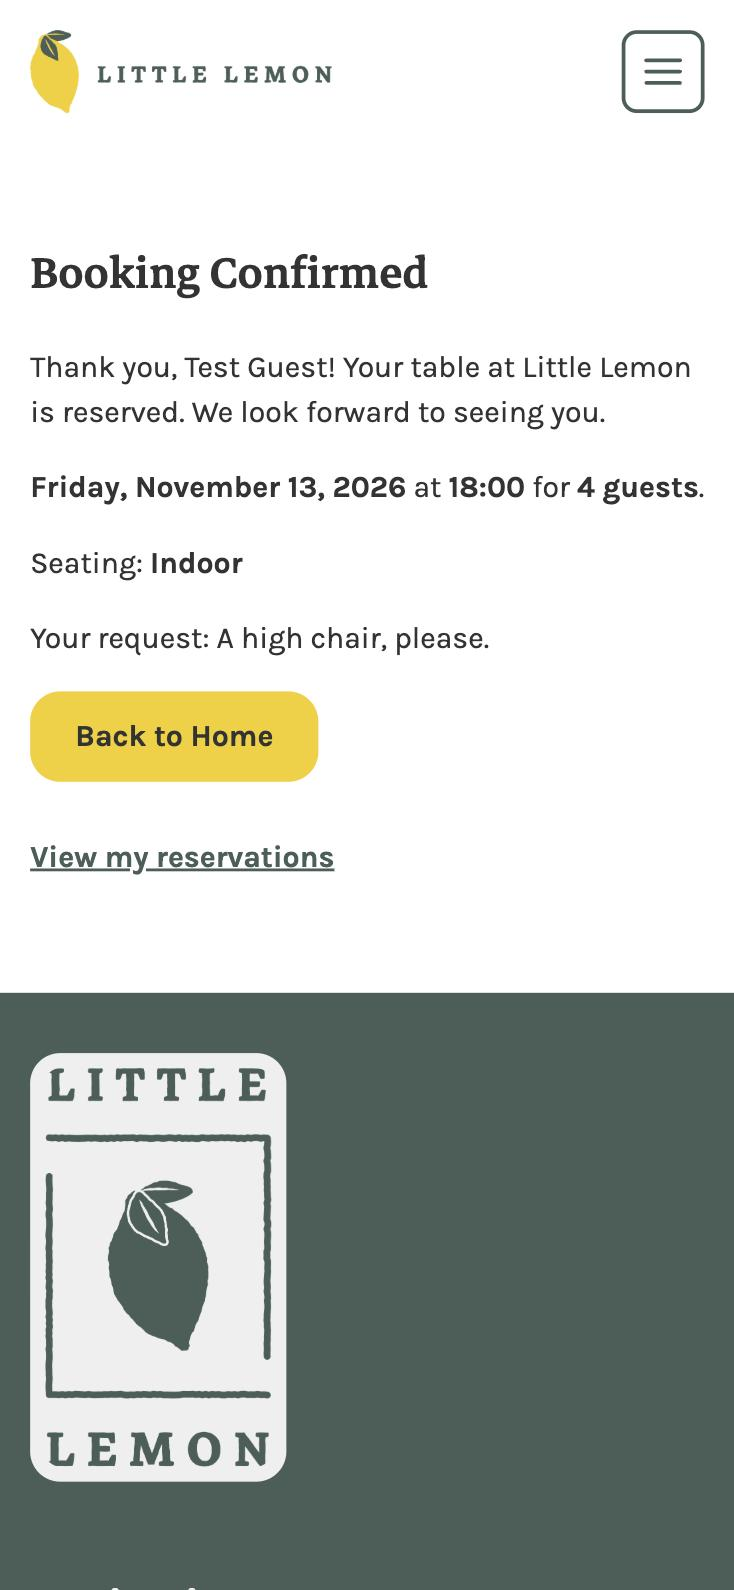
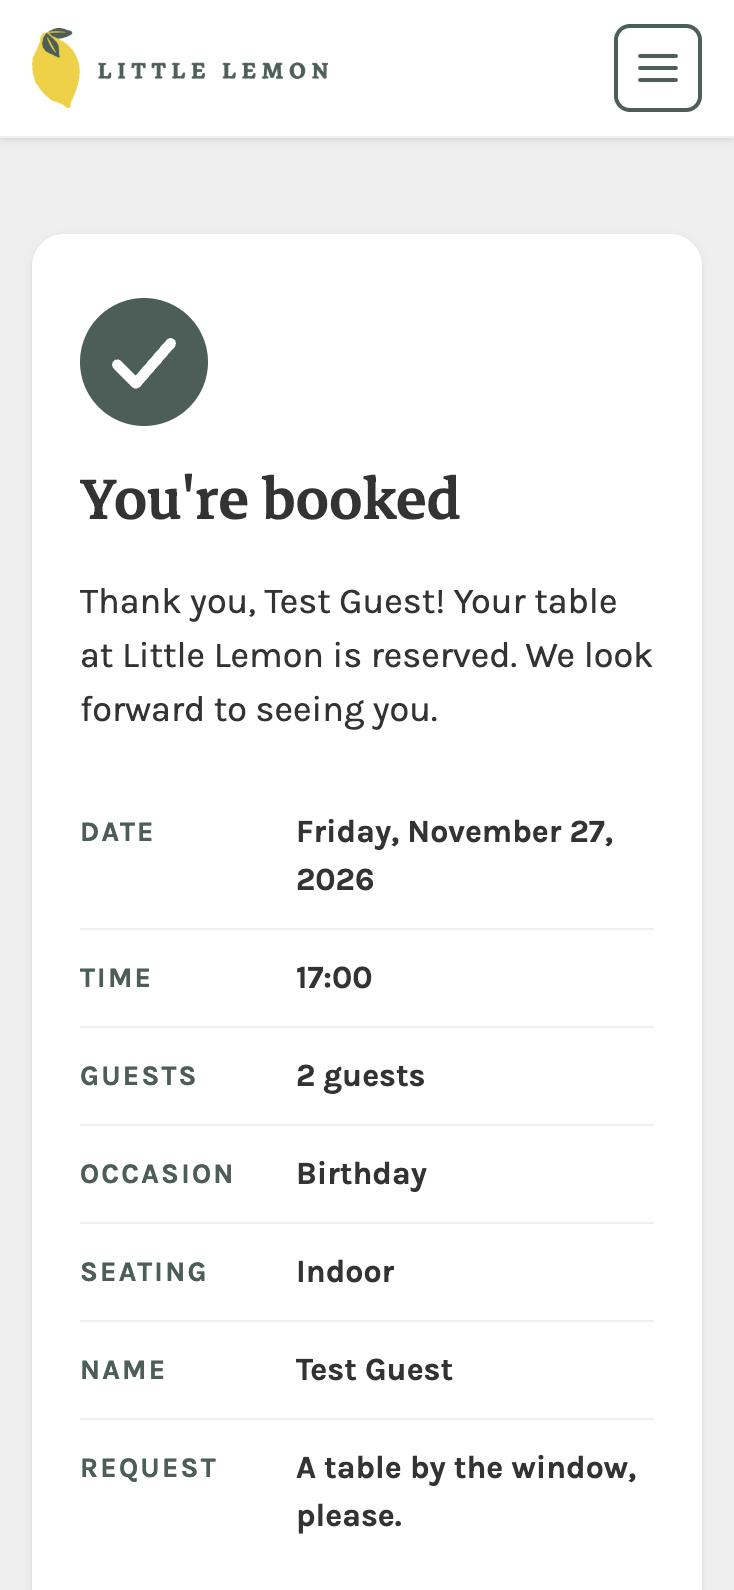
docs(readme): new screenshots with fake data and final notes

diff --git a/README.md b/README.md
@@ -54,7 +54,7 @@ The app opens at [http://localhost:3000](http://localhost:3000). Step-by-step de
 - **My Reservations page**: every booking is saved in the browser (`localStorage`), so it's still there after a reload. Bookings are split into **Upcoming** and **Past**, each card with a date badge, the time, small pills for guests, occasion and seating, and the name. **Cancel** asks first ("Cancel this reservation?" **Yes, cancel** / **Keep it**), and screen readers announce "Reservation cancelled." Past bookings are kept as a record and can't be cancelled.
 - **No double bookings**: a time you've already booked disappears from the time list for that date, and comes back if you cancel. (Demo rule: this browser can't book the same slot twice. With no real server, other visitors' bookings aren't known.)
 - **Helpful messages for edge cases**: a failed save, a date with no times, a cleared date, and a visit to the confirmation page with no booking.
-- **Responsive layout**: designed for phones first and checked from 280px (the smallest phones) to 1920px wide, in portrait and landscape. On phones the navigation folds into a menu button; from 768px up the links are always shown, and from 1024px they sit beside the logo. Nothing scrolls sideways, and every link and button is at least 44px tall, so it's easy to tap.
+- **Responsive layout**: designed for phones first and checked from 280px (the smallest phones) to 1920px wide, in portrait and landscape. On phones the navigation folds into a menu button; from 768px up the logo, the links and the Reserve a Table button share one row. Nothing scrolls sideways, and every link and button is at least 44px tall, so it's easy to tap (the footer's phone and email links are smaller only when the pointer is a mouse). On the narrowest phones (under 320px) the menu's filter tabs scroll sideways inside their own bar.
 - **Accessible**: every field has a label, errors are read out by screen readers, and the whole flow works with the keyboard alone.
 
 ## Screenshots
@@ -63,21 +63,27 @@ All names, emails and bookings in these screenshots are fake test data.
 
 **Desktop**
 
-![Home page: hero with "Reserve a Table", and this week's specials](docs/screenshots/home-desktop.jpg)
+![Home page: a green hero with the Little Lemon title, Reserve a Table and See the menu buttons, the address and dinner time, and a photo of the food](docs/screenshots/home-desktop.jpg)
 
-![Menu page with the Mains filter chosen, showing three dishes and their prices](docs/screenshots/menu-desktop.jpg)
+![Home page specials: three photo cards (Bruschetta, Greek Salad, Lemon Dessert) with price badges and Vegetarian tags](docs/screenshots/home-specials-desktop.jpg)
 
-![My Reservations page listing two fake bookings, each with a Cancel button](docs/screenshots/my-reservations-desktop.jpg)
+![Menu page: a peach header, the All, Starters, Mains, Desserts and Drinks tabs, and the Starters section with photos, dotted lines to the prices, and dietary tags](docs/screenshots/menu-desktop.jpg)
+
+![Booking page: the When and Your table steps filled in on the left, and the Your reservation summary on the right showing Friday, November 20, 2026 at 19:00 for 4 guests, outdoor](docs/screenshots/booking-desktop.jpg)
+
+![My Reservations page: Upcoming bookings with date badges and detail pills, one showing the Cancel this reservation question with Yes, cancel and Keep it, and a Past section below](docs/screenshots/my-reservations-desktop.jpg)
+
+![About page: the Our story header, and the story next to two overlapping photos of Mario and Adrian in the kitchen](docs/screenshots/about-desktop.jpg)
 
 **Phone**
 
 | Menu button opened | Booking form | Confirmation |
 | --- | --- | --- |
-| <img src="docs/screenshots/nav-mobile.jpg" alt="Phone view with the menu button opened and the six page links stacked" width="240" /> | <img src="docs/screenshots/booking-form-mobile.jpg" alt="Phone view of the booking form with seating, name, email and special request filled in" width="240" /> | <img src="docs/screenshots/confirmation-mobile.jpg" alt="Phone view of the Booking Confirmed page thanking Test Guest, with the date, time, guests, seating and request" width="240" /> |
+| <img src="docs/screenshots/nav-mobile.jpg" alt="Phone view with the menu opened: Home, About and Menu links and a full-width Reserve a Table button" width="240" /> | <img src="docs/screenshots/booking-form-mobile.jpg" alt="Phone view of the Your details step filled in with Test Guest, guest@example.com and a request, above the Your reservation summary" width="240" /> | <img src="docs/screenshots/confirmation-mobile.jpg" alt="Phone view of the You're booked page thanking Test Guest, with the date, time, guests, occasion, seating, name and request" width="240" /> |
 
 ## Lighthouse
 
-Measured with [PageSpeed Insights](https://pagespeed.web.dev) (Lighthouse 13.6, **mobile**: an emulated mid-range phone on a slow 4G connection) on the live home page, November 8, 2026. These are from the second of two runs after the hero photo change.
+Measured with [PageSpeed Insights](https://pagespeed.web.dev) (Lighthouse 13.6, **mobile**: an emulated mid-range phone on a slow 4G connection) on the live home page, November 8, 2026. These are from the second of two runs after the hero photo change, **before the UI redesign**; they will be measured again once the redesign is live.
 
 | Performance | Accessibility | Best Practices | SEO |
 | --- | --- | --- | --- |
@@ -254,6 +260,7 @@ src/
 - `src/pages/`: one folder per page the router can show.
 - `src/hooks/`: custom hooks. `useFetch(url)` loads JSON and returns `{ data, loading, error, retry }`, cancels the request if the page closes first, and loads again when `retry()` is called. `useLocalStorage(key, initialValue)` works like `useState` but also saves the value in the browser.
 - `src/context/`: `ReservationsContext.js` shares the saved reservations with any page through `useReservations()`, so they don't have to be passed down through every component.
+- `public/images/`: the photos and logos. The dish photos are resized with macOS `sips` (for example `bruschetta.jpg` went from a 1920px, 404 KB PNG to an 800px, 76 KB JPEG, and `shakshuka.jpg` from 313 KB to 75 KB), so they load quickly on phones.
 - `public/data/menu.json`: the sample menu. Files in `public/` are served as they are, so the app fetches it like a real API. Each dish has a name, category, price, description and dietary `tags`; dishes with `"featured": true` (and an `image`) appear in the home page's specials.
 - `src/data/restaurant.js`: the restaurant's sample address, hours, phone number and email, in one place. The home page and the footer both read it, so they can't disagree.
 - `src/utils/`: small helpers. `dates.js` converts between a date input's `YYYY-MM-DD` text and a JavaScript date, and checks that a date is complete. `price.js` formats a price as US dollars (`5` becomes `$5.00`), for the menu and the home page.
